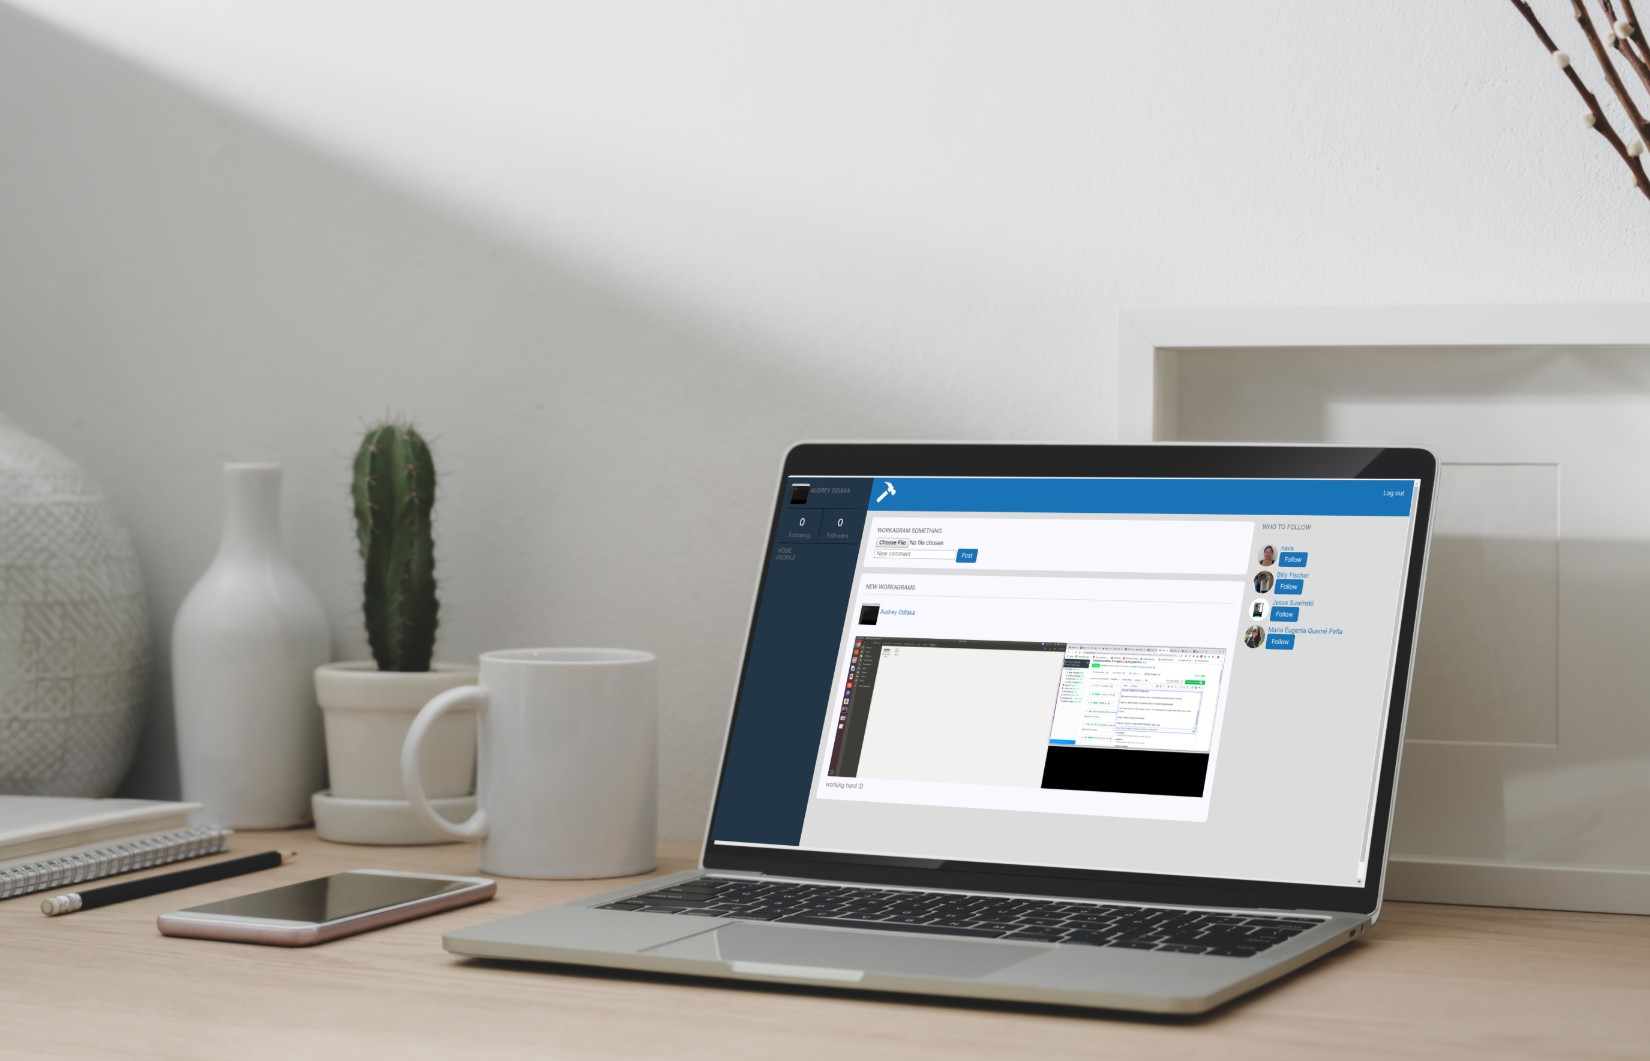
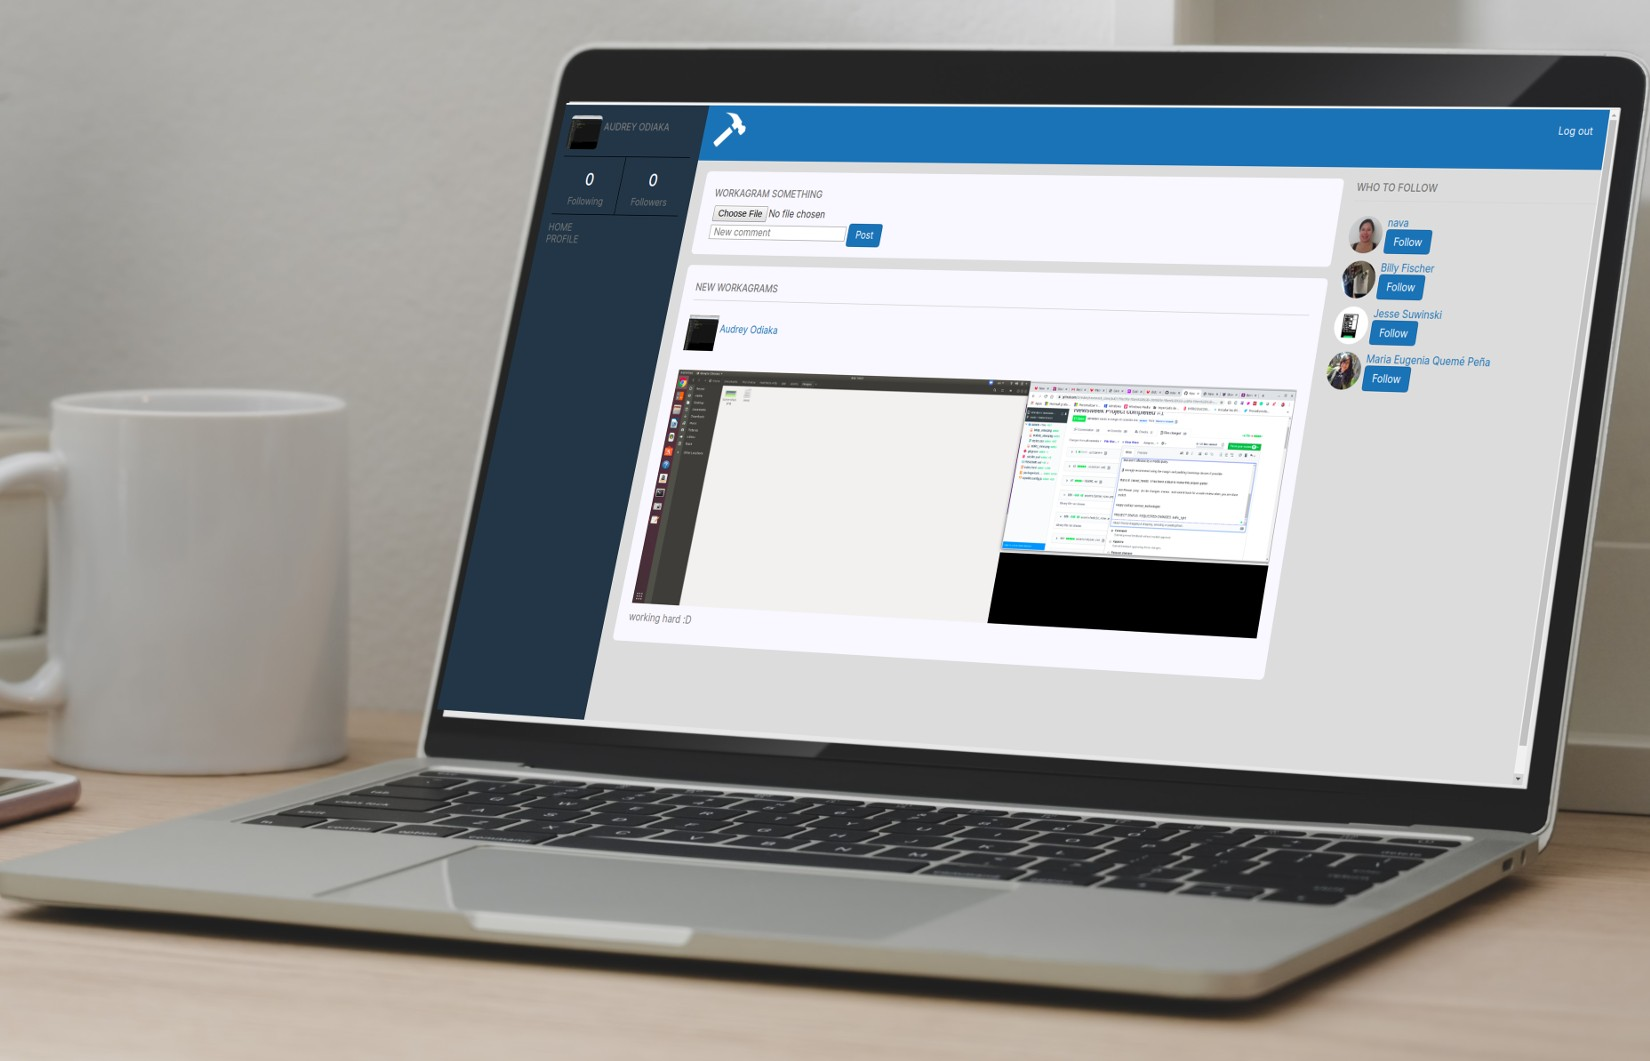
Fix project mockups and carousel control colums

diff --git a/index.html b/index.html
@@ -89,45 +89,9 @@
                 <h2 class="text-center font-weight-bold">PORTFOLIO</h2>
                 <p class="text-center col-7 col-sm-6 col-md-4 col-lg-3 mb-4">These are some of the projects I've built 100% remotely</p>
                 <div class="row mx-3">
-                    <div class="col-12 col-lg-6 col-xl-4 px-2 px-md-4">
+                   <div class="ccol-12 col-lg-6 col-xl-4 px-2 px-md-4">
                         <article class="rounded-circle">
                             <a href="" data-toggle="modal" data-target="#exampleModalCenter" onclick="changePic('1')">
-                                <div class="rounded-circle pt-5 px-5 px-md-4 d-hid">
-                                    <h3 class="font-weight-bold bg-transparent pt-5 pt-lg-3 pl-2 mx-4">WORKAGRAM!</h3>
-                                    <p class="pt-1 pl-2 mx-4">Twitter inspired RoR app where users follow each other and post pictures of their work life</p>
-                                </div>    
-                                <div class="rounded-circle d-show"></div>
-                            </a>     
-                        </article>
-                        <div class="o-separator my-4"></div>
-                    </div>
-                    <div class="col-12 col-lg-6 col-xl-4 px-2 px-md-4">
-                        <article class="rounded-circle">
-                            <a href="" data-toggle="modal" data-target="#exampleModalCenter" onclick="changePic('2')">
-                              <div class="rounded-circle pt-5 px-5 px-md-4 d-hid">
-                                  <h3 class="font-weight-bold bg-transparent pt-5 pt-lg-3 pl-2 mx-4">Tic Tac Toe</h3>
-                                  <p class="pt-1 pl-2 mx-4">The famous two player Tic Tac Toe game made in Ruby played directly from a console or terminal</p>
-                              </div> 
-                              <div class="rounded-circle d-show"></div>
-                            </a>      
-                        </article>
-                        <div class="o-separator my-4"></div>
-                    </div>
-                    <div class="col-12 col-lg-6 col-xl-4 px-2 px-md-4">
-                        <article class="rounded-circle">
-                            <a href="" data-toggle="modal" data-target="#exampleModalCenter" onclick="changePic('3')">
-                              <div class="rounded-circle pt-5 px-5 px-md-4 d-hid">
-                                <h3 class="font-weight-bold bg-transparent pt-5 pt-lg-3 pl-2 mx-4">My own Framework</h3>
-                                <p class="pt-1 pl-2 mx-4">Created a responsive clone for the ionos.com page using my own Bootstrap inspired CSS framework</p>
-                              </div>    
-                              <div class="rounded-circle d-show"></div>  
-                            </a>     
-                        </article>
-                        <div class="o-separator my-4"></div>
-                    </div>
-                    <div class="ccol-12 col-lg-6 col-xl-4 px-2 px-md-4">
-                        <article class="rounded-circle">
-                            <a href="" data-toggle="modal" data-target="#exampleModalCenter" onclick="changePic(4)">
                               <div class="rounded-circle pt-5 px-5 px-md-4 d-hid">
                                 <h3 class="font-weight-bold bg-transparent pt-5 pt-lg-3 pl-2 mx-4">Newsweek clone</h3>
                                 <p class="pt-1 pl-2 mx-4">newsweek.com responsive page clone using mainly Bootstrap.</p>
@@ -139,7 +103,19 @@
                     </div>
                     <div class="col-12 col-lg-6 col-xl-4 px-2 px-md-4">
                         <article class="rounded-circle">
-                            <a href="" data-toggle="modal" data-target="#exampleModalCenter" onclick="changePic(5)">
+                            <a href="" data-toggle="modal" data-target="#exampleModalCenter" onclick="changePic('2')">
+                                <div class="rounded-circle pt-5 px-5 px-md-4 d-hid">
+                                    <h3 class="font-weight-bold bg-transparent pt-5 pt-lg-3 pl-2 mx-4">WORKAGRAM!</h3>
+                                    <p class="pt-1 pl-2 mx-4">Twitter inspired RoR app where users follow each other and post pictures of their work life</p>
+                                </div>    
+                                <div class="rounded-circle d-show"></div>
+                            </a>     
+                        </article>
+                        <div class="o-separator my-4"></div>
+                    </div>
+					                    <div class="col-12 col-lg-6 col-xl-4 px-2 px-md-4">
+                        <article class="rounded-circle">
+                            <a href="" data-toggle="modal" data-target="#exampleModalCenter" onclick="changePic('3')">
                             <div class="rounded-circle pt-5 px-5 px-md-4 d-hid">
                                 <h3 class="font-weight-bold bg-transparent pt-5 pt-lg-3 pl-2 mx-4">The Next Web Clone</h3>
                                 <p class="pt-1 pl-2 mx-4">txn.com responsive clone using only HTML and CSS</p>
@@ -151,7 +127,7 @@
                     </div>
                     <div class="col-12 col-lg-6 col-xl-4 px-2 px-md-4">
                         <article class="rounded-circle">
-                            <a href="" data-toggle="modal" data-target="#exampleModalCenter" onclick="changePic(6)">
+                            <a href="" data-toggle="modal" data-target="#exampleModalCenter" onclick="changePic('4')">
                               <div class="rounded-circle pt-5 px-5 px-md-4 d-hid">
                                 <h3 class="font-weight-bold bg-transparent pt-5 pt-lg-3 pl-2 mx-4">UX Heat Map</h3>
                                 <p class="pt-1 pl-2 mx-4">Gray scale UX heat-map for the smashingmagazine page using HTML and CSS</p>
@@ -160,7 +136,31 @@
                             </a>     
                         </article>
                         <div class="o-separator my-4"></div>
-                    </div>                             
+                    </div>  
+                    <div class="col-12 col-lg-6 col-xl-4 px-2 px-md-4">
+                        <article class="rounded-circle">
+                            <a href="" data-toggle="modal" data-target="#exampleModalCenter" onclick="changePic('5')">
+                              <div class="rounded-circle pt-5 px-5 px-md-4 d-hid">
+                                  <h3 class="font-weight-bold bg-transparent pt-5 pt-lg-3 pl-2 mx-4">Tic Tac Toe</h3>
+                                  <p class="pt-1 pl-2 mx-4">The famous two player Tic Tac Toe game made in Ruby played directly from a console or terminal</p>
+                              </div> 
+                              <div class="rounded-circle d-show"></div>
+                            </a>      
+                        </article>
+                        <div class="o-separator my-4"></div>
+                    </div>
+                    <div class="col-12 col-lg-6 col-xl-4 px-2 px-md-4">
+                        <article class="rounded-circle">
+                            <a href="" data-toggle="modal" data-target="#exampleModalCenter" onclick="changePic('6')">
+                              <div class="rounded-circle pt-5 px-5 px-md-4 d-hid">
+                                <h3 class="font-weight-bold bg-transparent pt-5 pt-lg-3 pl-2 mx-4">My own Framework</h3>
+                                <p class="pt-1 pl-2 mx-4">Created a responsive clone for the ionos.com page using my own Bootstrap inspired CSS framework</p>
+                              </div>    
+                              <div class="rounded-circle d-show"></div>  
+                            </a>     
+                        </article>
+                        <div class="o-separator my-4"></div>
+                    </div>					
                 </div>
             </section>
             <!-- Modal -->
@@ -183,13 +183,26 @@
                               <li data-target="#carouselExampleIndicators" data-slide-to="5"></li>
                             </ol>
                             <div class="carousel-inner">
+                              <div class="carousel-item">
+                                <div class="carousel-header d-block">
+                                    <h5 class="my-2 font-weight-bold text-center text-white">Newsweek clone</h5>
+                                </div>
+                                <img class="d-block w-100" src="img/tracker-api-mockup.jpg" alt="Fourth slide">
+                                <div class="carousel-caption d-block">
+                                    <p class="my-2 text-white text-center mx-auto font-weight-bold pb-2">
+                                        newsweek.com responsive page clone using mainly Bootstrap <br>
+                                        <a target="_blank" href="https://github.com/euqueme/using-bootstrap"  class="text-white border-white py-2 px-2 mx-auto my-5 bg-transparent">Source code</a>
+                                        <a target="_blank" href="https://euqueme.github.io/using-bootstrap/" class="text-white border-white py-2 px-2 mx-auto my-5 bg-transparent ">Live demo</a>
+                                    </p>
+                                </div>
+                              </div>
                               <div class="carousel-item active">
                                 <div class="carousel-header d-block">
                                     <h5 class="my-2 font-weight-bold text-center text-white">WORKAGRAM!</h5>
                                 </div>
-                                <img class="d-block w-100" src="img/workagram-mockup.png" alt="First slide">
+                                <img class="d-block w-100" src="img/workagram-mockup.jpg" alt="First slide">
                                 <div class="carousel-caption d-block">
-                                    <p class="my-2 text-white text-center mx-auto font-weight-bold">
+                                    <p class="my-2 text-white text-center mx-auto font-weight-bold pb-2">
                                         Twitter inspired RoR app where workers follow each other and post pictures of their work life <br>
                                         <a target="_blank" href="https://github.com/euqueme/workagram"  class="text-white border-white py-2 px-2 mx-auto my-5 bg-transparent">Source code</a>
                                         <a target="_blank" href="https://maru-workagram.herokuapp.com/" class="text-white border-white py-2 px-2 mx-auto my-5 bg-transparent ">Live demo</a>
@@ -198,50 +211,11 @@
                               </div>
                               <div class="carousel-item">
                                 <div class="carousel-header d-block">
-                                    <h5 class="my-2 font-weight-bold text-center text-white">Tic Tac Toe</h5>
-                                </div>
-                                <img class="d-block w-100" src="img/tic-tac-toe-ruby-mockup.png" alt="Second slide">
-                                <div class="carousel-caption d-block">
-                                    <p class="my-2 text-white text-center mx-auto font-weight-bold">
-                                        The famous two player Tic Tac Toe game made in Ruby played directly from a console or terminal <br>
-                                        <a target="_blank" href="https://github.com/euqueme/tic-tac-toe"  class="text-white border-white py-2 px-2 mx-auto my-5 bg-transparent">Source code</a>
-                                        <a target="_blank" href="https://tic-tac-toe.mariaeugeniaeu2.repl.run/" class="text-white border-white py-2 px-2 mx-auto my-5 bg-transparent ">Live demo</a>
-                                    </p>
-                                </div>
-                              </div>
-                              <div class="carousel-item">
-                                <div class="carousel-header d-block">
-                                    <h5 class="my-2 font-weight-bold text-center text-white">My own Framework</h5>
-                                </div>
-                                <img class="d-block w-50 mx-auto" src="img/framework-mockup.png" alt="Third slide">
-                                <div class="carousel-caption d-block">
-                                    <p class="my-2 text-white text-center mx-auto font-weight-bold">
-                                        Created a responsive clone for the ionos.com page using my own Bootstrap inspired CSS framework <br>
-                                        <a target="_blank" href="https://github.com/euqueme/framework-demo"  class="text-white border-white py-2 px-2 mx-auto my-5 bg-transparent">Source code</a>
-                                        <a target="_blank" href="https://euqueme.github.io/framework-demo" class="text-white border-white py-2 px-2 mx-auto my-5 bg-transparent ">Live demo</a>
-                                    </p>
-                                </div>
-                              </div>
-                              <div class="carousel-item">
-                                <div class="carousel-header d-block">
-                                    <h5 class="my-2 font-weight-bold text-center text-white">Newsweek clone</h5>
-                                </div>
-                                <img class="d-block w-100" src="img/bootstrap-mockup.png" alt="Fourth slide">
-                                <div class="carousel-caption d-block">
-                                    <p class="my-2 text-white text-center mx-auto font-weight-bold">
-                                        newsweek.com responsive page clone using mainly Bootstrap <br>
-                                        <a target="_blank" href="https://github.com/euqueme/using-bootstrap"  class="text-white border-white py-2 px-2 mx-auto my-5 bg-transparent">Source code</a>
-                                        <a target="_blank" href="https://euqueme.github.io/using-bootstrap/" class="text-white border-white py-2 px-2 mx-auto my-5 bg-transparent ">Live demo</a>
-                                    </p>
-                                </div>
-                              </div>
-                              <div class="carousel-item">
-                                <div class="carousel-header d-block">
                                     <h5 class="my-2 font-weight-bold text-center text-white">The Next Web Clone</h5>
                                 </div>
-                                <img class="d-block w-75 mx-auto" src="img/responsive-mockup.png" alt="Fifth slide">
+                                <img class="d-block w-100 mx-auto" src="img/stay-in-touch-mockup.jpg" alt="Fifth slide">
                                 <div class="carousel-caption d-block">
-                                    <p class="my-2 text-white text-center mx-auto font-weight-bold">
+                                    <p class="my-2 text-white text-center mx-auto font-weight-bold pb-2">
                                         txn.com responsive clone using only HTML and CSS <br>
                                         <a target="_blank" href="https://github.com/euqueme/responsive-design"  class="text-white border-white py-2 px-2 mx-auto my-5 bg-transparent">Source code</a>
                                         <a target="_blank" href="https://euqueme.github.io/responsive-design/" class="text-white border-white py-2 px-2 mx-auto my-5 bg-transparent ">Live demo</a>
@@ -252,12 +226,38 @@
                                 <div class="carousel-header d-block">
                                     <h5 class="my-2 font-weight-bold text-center text-white">UX Heat Map</h5>
                                 </div>
-                                <img class="d-block w-100" src="img/Heat-Map-mockup.png" alt="Sixt slide">
+                                <img class="d-block w-100" src="img/blogger2-mockup.jpg" alt="Sixt slide">
                                 <div class="carousel-caption d-block">
-                                    <p class="my-2 text-white text-center mx-auto font-weight-bold">
+                                    <p class="my-2 text-white text-center mx-auto font-weight-bold pb-2">
                                         Gray scale UX heat-map for the smashingmagazine page using HTML and CSS <br>
                                         <a target="_blank" href="https://github.com/euqueme/heat-map"  class="text-white border-white py-2 px-2 mx-auto my-5 bg-transparent">Source code</a>
                                         <a target="_blank" href="https://euqueme.github.io/heat-map/" class="text-white border-white py-2 px-2 mx-auto my-5 bg-transparent ">Live demo</a>
+                                    </p>
+                                </div>
+                              </div>
+                              <div class="carousel-item">
+                                <div class="carousel-header d-block">
+                                    <h5 class="my-2 font-weight-bold text-center text-white">Tic Tac Toe</h5>
+                                </div>
+                                <img class="d-block w-100" src="img/tic-tac-toe-ruby-mockup.jpg" alt="Second slide">
+                                <div class="carousel-caption d-block">
+                                    <p class="my-2 text-white text-center mx-auto font-weight-bold pb-2">
+                                        The famous two player Tic Tac Toe game made in Ruby played directly from a console or terminal <br>
+                                        <a target="_blank" href="https://github.com/euqueme/tic-tac-toe"  class="text-white border-white py-2 px-2 mx-auto my-5 bg-transparent">Source code</a>
+                                        <a target="_blank" href="https://tic-tac-toe.mariaeugeniaeu2.repl.run/" class="text-white border-white py-2 px-2 mx-auto my-5 bg-transparent ">Live demo</a>
+                                    </p>
+                                </div>
+                              </div>
+                              <div class="carousel-item">
+                                <div class="carousel-header d-block">
+                                    <h5 class="my-2 font-weight-bold text-center text-white">My own Framework</h5>
+                                </div>
+                                <img class="d-block w-100 mx-auto" src="img/framework-mockup.jpg" alt="Third slide">
+                                <div class="carousel-caption d-block">
+                                    <p class="my-2 text-white text-center mx-auto font-weight-bold pb-2">
+                                        Created a responsive clone for the ionos.com page using my own Bootstrap inspired CSS framework <br>
+                                        <a target="_blank" href="https://github.com/euqueme/framework-demo"  class="text-white border-white py-2 px-2 mx-auto my-5 bg-transparent">Source code</a>
+                                        <a target="_blank" href="https://euqueme.github.io/framework-demo" class="text-white border-white py-2 px-2 mx-auto my-5 bg-transparent ">Live demo</a>
                                     </p>
                                 </div>
                               </div>

diff --git a/styles/style.css b/styles/style.css
@@ -278,27 +278,27 @@ h3, #About a, #Portfolio p {
 }
 
 #Portfolio div div:nth-of-type(1n) article .d-show {
-  background: url(../img/workagram-mockup.png) 50% 100%/cover no-repeat;
+  background: url(../img/tracker-api-mockup.jpg) 50% 100%/cover no-repeat;
 }
 
 #Portfolio div div:nth-of-type(2n) article .d-show {
-  background: url(../img/tic-tac-toe-ruby-mockup.png) 50% 100%/cover no-repeat;
+  background: url(../img/workagram-mockup.jpg) 50% 100%/cover no-repeat;
 }
 
 #Portfolio div div:nth-of-type(3n) article .d-show {
-  background: url(../img/framework-mockup.png) 50% 8%/cover no-repeat;
+  background: url(../img/stay-in-touch-mockup.jpg) 50% 50%/cover no-repeat;
 }
 
 #Portfolio div div:nth-of-type(4n) article .d-show {
-  background: url(../img/bootstrap-mockup.png) 35% 100%/cover no-repeat;
+  background: url(../img/blogger2-mockup.jpg) 35% 100%/cover no-repeat;
 }
 
 #Portfolio div div:nth-of-type(5n) article .d-show {
-  background: url(../img/responsive-mockup.png) 50% 5%/cover no-repeat;
+  background: url(../img/tic-tac-toe-ruby-mockup.jpg) 50% 5%/cover no-repeat;
 }
 
 #Portfolio div div:nth-of-type(6n) article .d-show {
-  background: url(../img/Heat-Map-mockup.png) 50% 100%/cover no-repeat;
+  background: url(../img/framework-mockup.jpg) 15% 100%/cover no-repeat;
 }
 
 .d-hid, .d-show {
@@ -363,6 +363,10 @@ footer {
   font-size: .8em;
 }
 
+.carousel-caption {
+  padding: 0
+}
+
 .carousel-caption p {
   background: rgba(249,105,14,0.6);
 
@@ -371,6 +375,16 @@ footer {
 .carousel-caption a:hover {
   color: rgba(1,1,1,.5) !important;
   background-color: white !important;
+
+}
+
+.carousel-control-next, .carousel-control-prev {
+  width: 7.5%;
+  opacity: .05;
+}
+
+.carousel-control-next:focus, .carousel-control-next:hover, .carousel-control-prev:focus, .carousel-control-prev:hover {
+  opacity: .3;
 }
 
 .modal-dialog {
